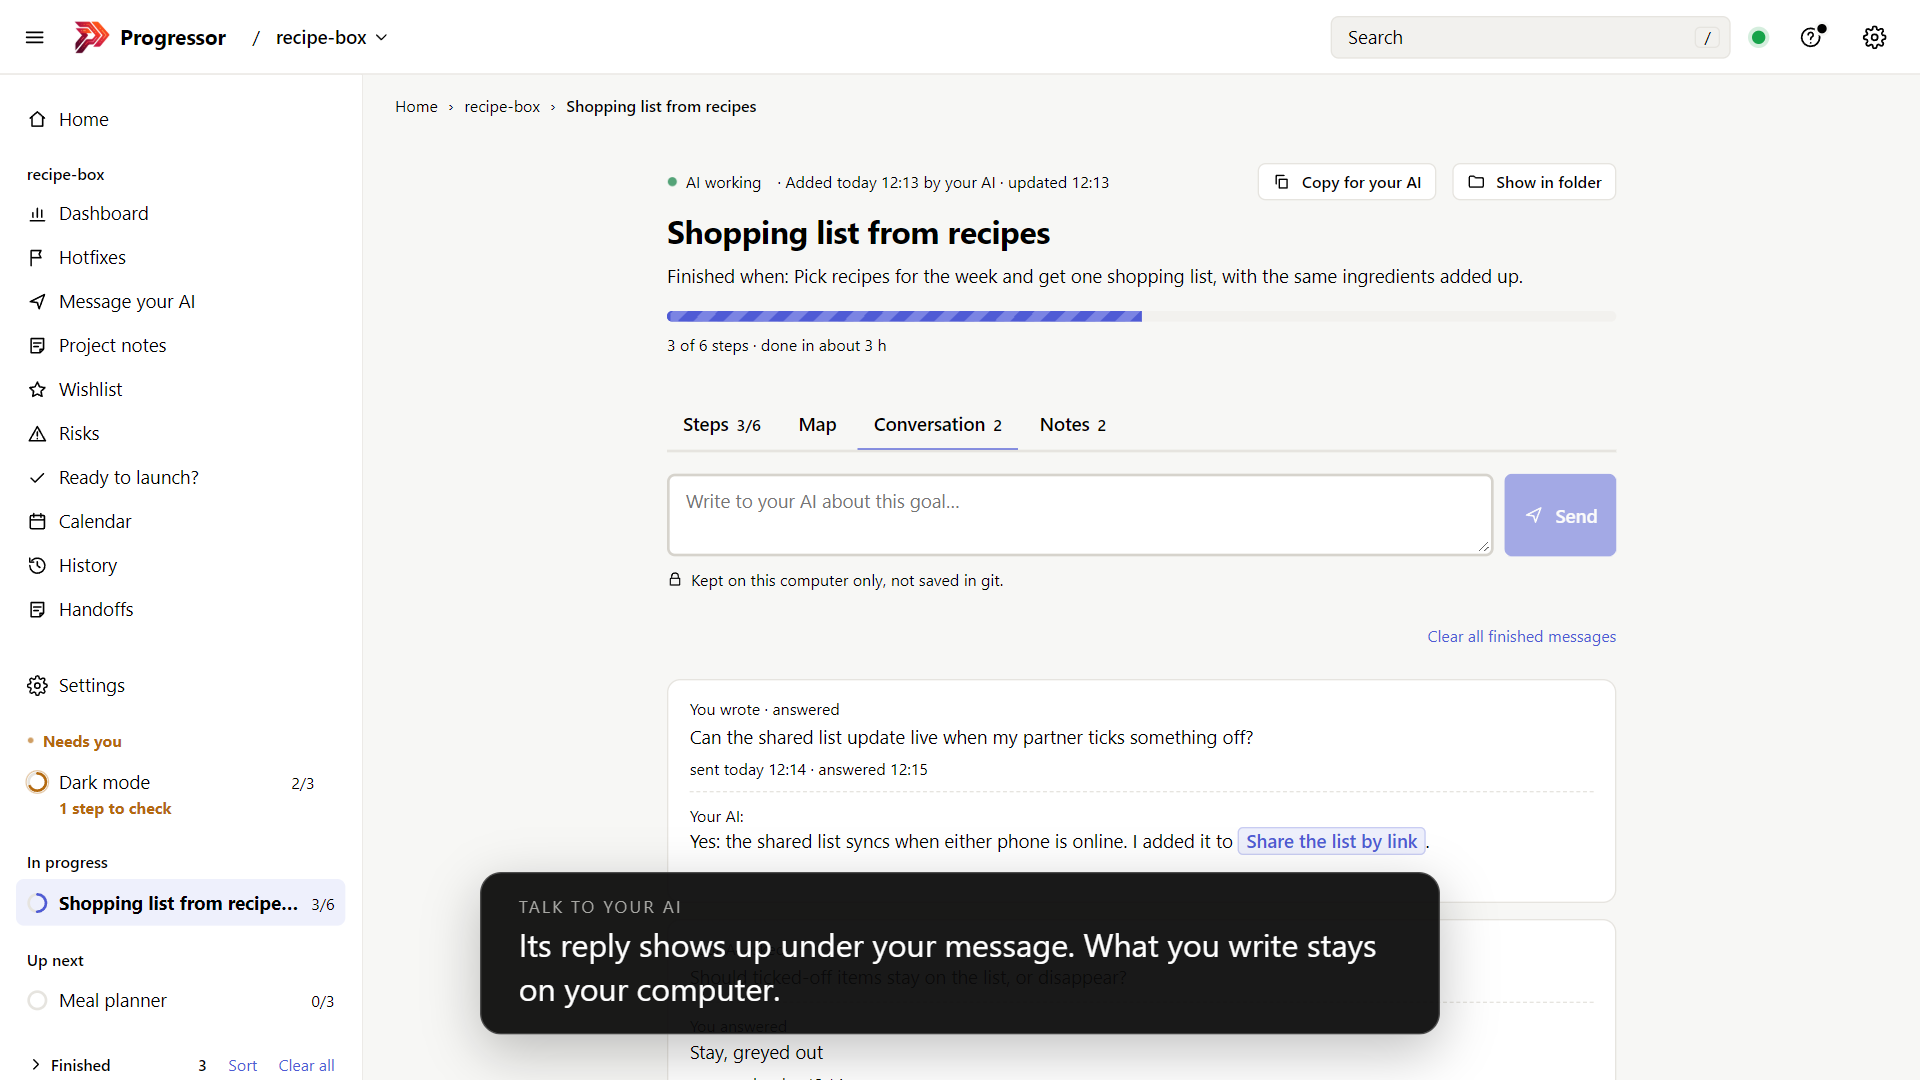
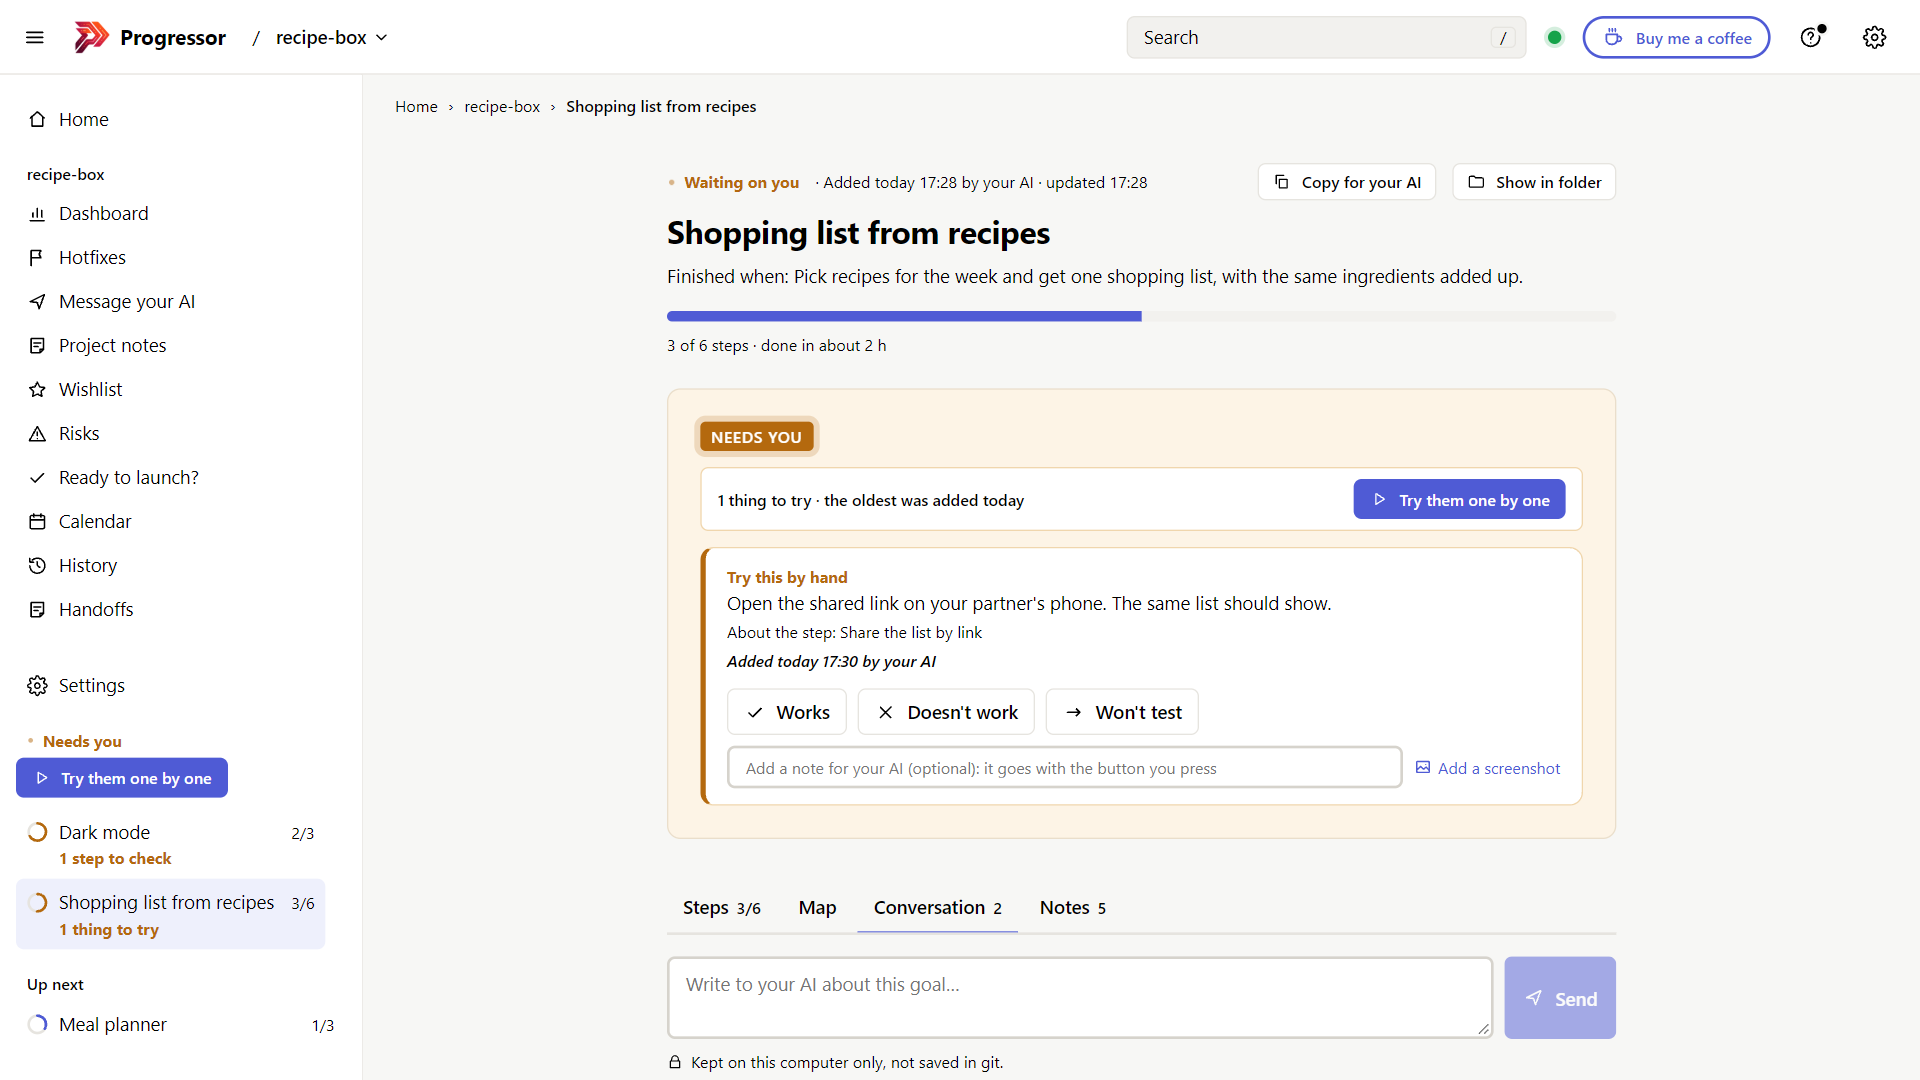
Showcase script: 1.5.0 scenes (tried by the AI, pull requests and checks), the coffee button, pictures without captions, README GIFs cut from the video

diff --git a/README.md b/README.md
@@ -17,14 +17,20 @@
 <p align="center"><b>Free for personal use.</b> Using it in a business, or selling, hosting or building a product on it, needs a license from the author: <a href="https://github.com/racstan/progressor-mcp/issues/new?template=commercial_license.yml">ask for one</a>.</p>
 
 <p align="center">
-  <a href="https://youtu.be/Nf22yrT9Dwo"><img src="https://raw.githubusercontent.com/racstan/progressor-mcp/main/docs/media/youtube-thumbnail.png" alt="Watch the 5-minute video on YouTube" width="640"></a>
+  <a href="https://youtu.be/Nf22yrT9Dwo"><img src="https://raw.githubusercontent.com/racstan/progressor-mcp/main/docs/media/youtube-thumbnail.png" alt="Watch the 6-minute video on YouTube" width="640"></a>
   <br>
-  <sub><a href="https://youtu.be/Nf22yrT9Dwo">▶ Watch the 5-minute video on YouTube</a></sub>
+  <sub><a href="https://youtu.be/Nf22yrT9Dwo">▶ Watch the 6-minute video on YouTube</a></sub>
 </p>
 
 <p align="center">
   <img src="https://raw.githubusercontent.com/racstan/progressor-mcp/main/docs/media/demo.gif" alt="An AI works through &quot;Shopping list from recipes&quot;: the step it is on is highlighted, steps tick off, a side trip opens and comes back" width="900">
 </p>
+
+**New in 1.5.0: less ceremony.**
+- Your AI now **tries the things to try itself**, and writes down what it saw. They show as "Tried by the AI"; only what truly needs you waits for you.
+- A **merged pull request ticks off its step** by itself, and each step shows its pull request and whether its checks passed.
+- **Helpers show on their step**, so you can see who is working on what.
+- Shorter answers from Progressor, and a **Buy me a coffee** button in the top bar if it helps you.
 
 It works with any app that supports [MCP](https://modelcontextprotocol.io) (the standard way AI apps add tools): Claude Code, Claude Desktop, VS Code with Copilot, Cursor, Windsurf, Codex and others.
 
